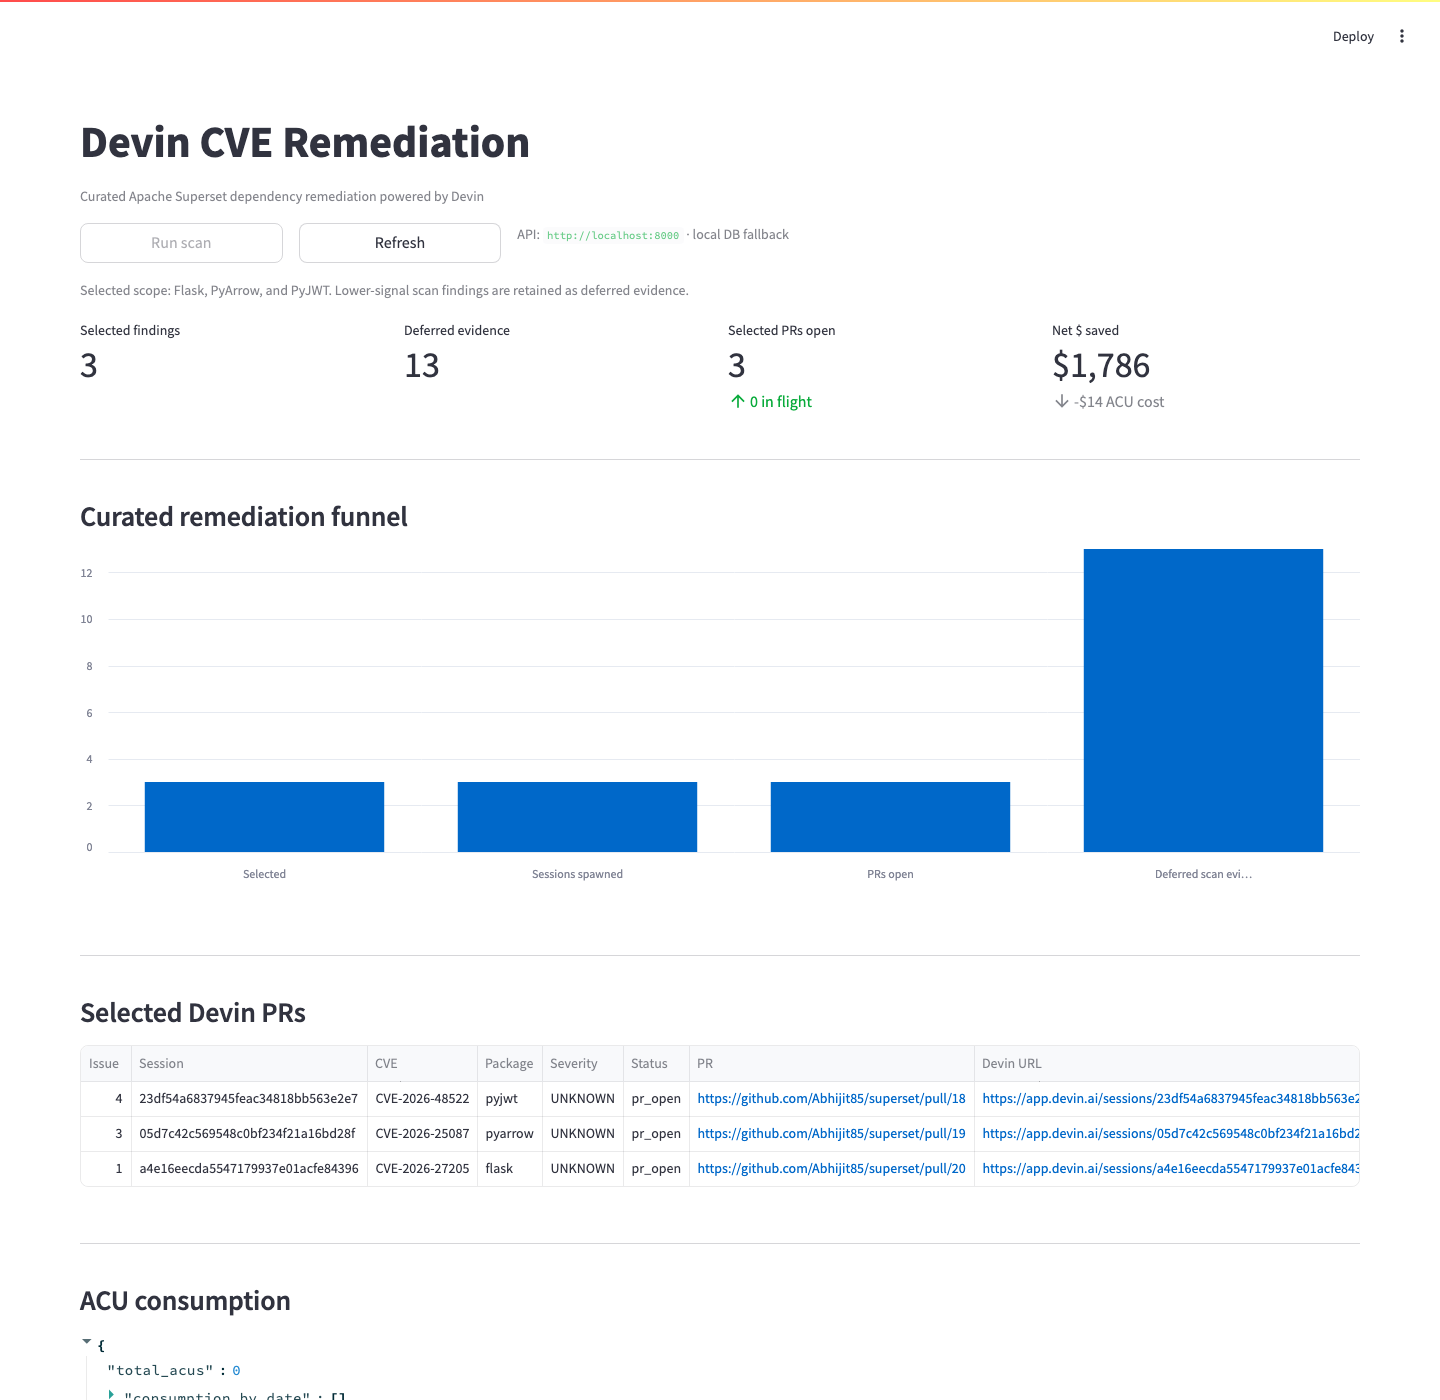
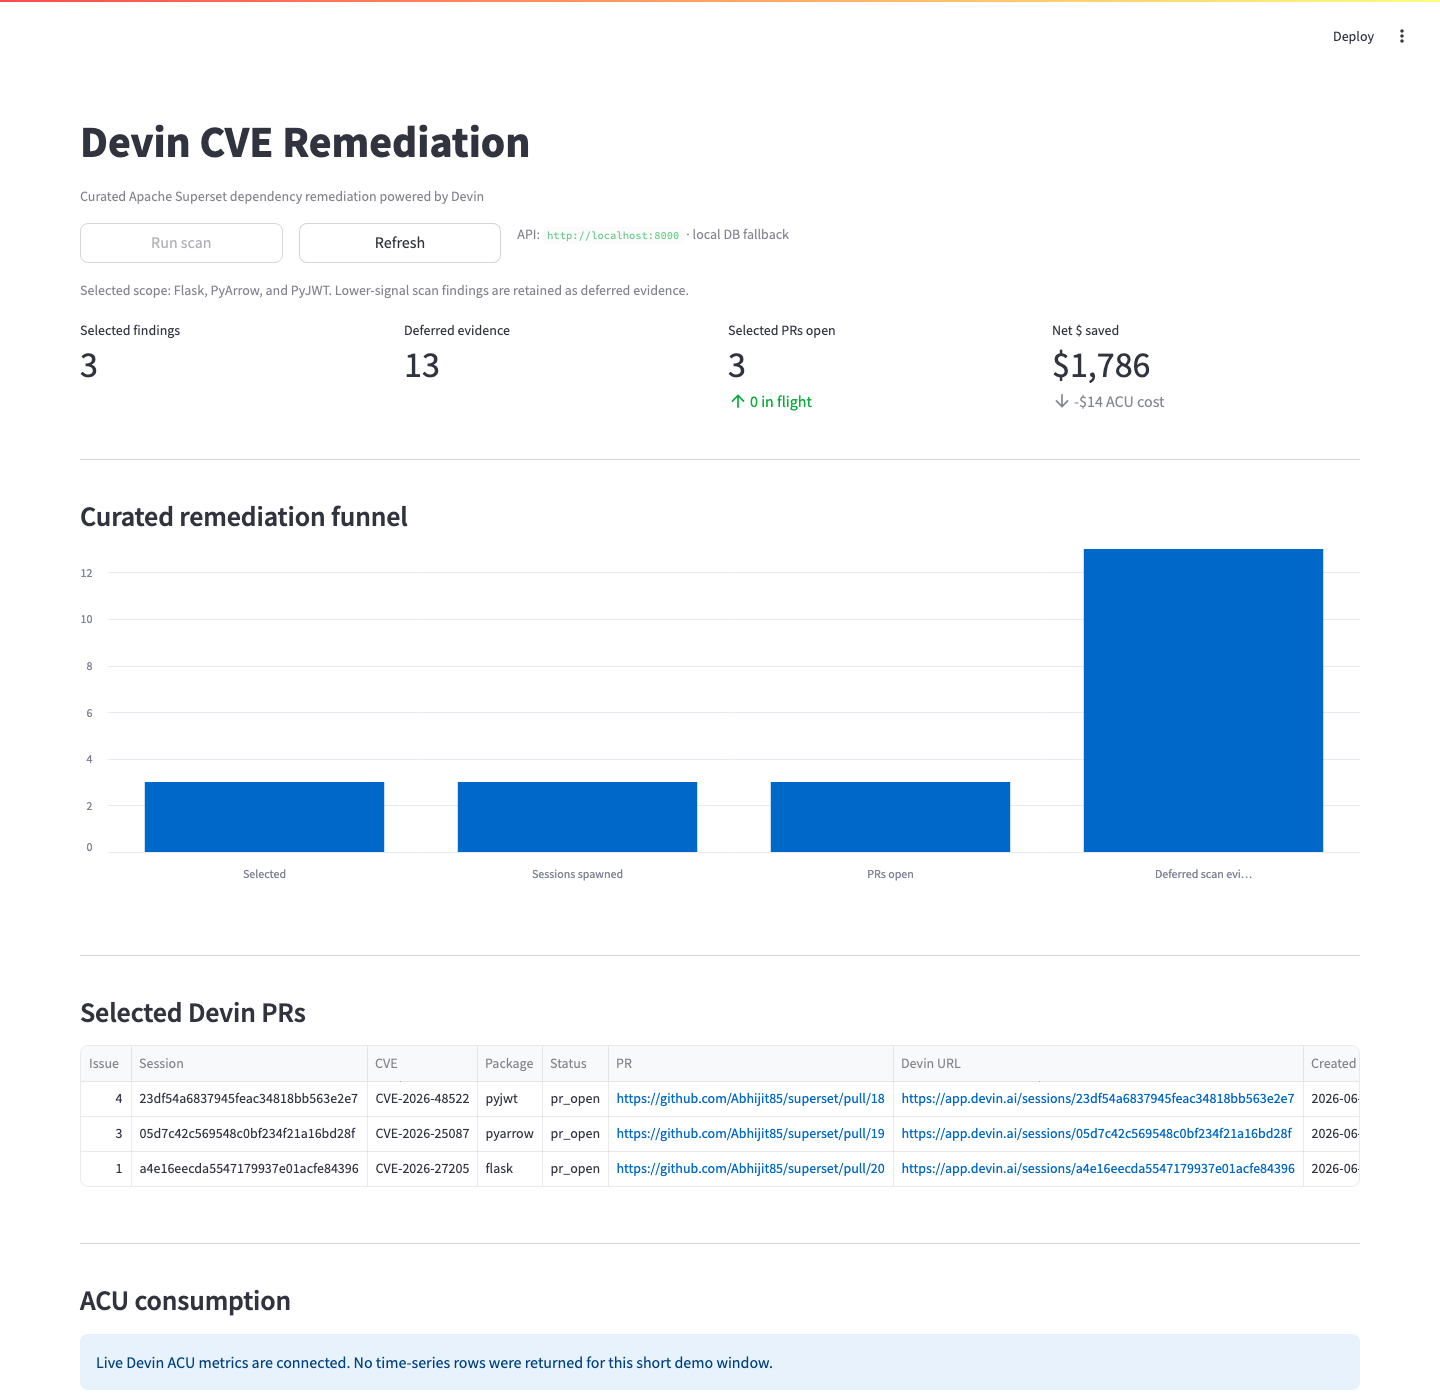
refactor: remove severity column from session rendering and update info message for consumption

Changed region(s): [[0.375, 0.7679, 0.9375, 0.86], [0.0625, 0.9521, 0.5312, 0.9829]]

diff --git a/dashboard/app.py b/dashboard/app.py
@@ -231,7 +231,6 @@ def render_sessions(sessions: pd.DataFrame) -> None:
         "devin_session_id",
         "cve_id",
         "package",
-        "severity",
         "status",
         "pr_url",
         "devin_session_url",
@@ -245,7 +244,6 @@ def render_sessions(sessions: pd.DataFrame) -> None:
         "devin_session_id": "Session",
         "cve_id": "CVE",
         "package": "Package",
-        "severity": "Severity",
         "status": "Status",
         "pr_url": "PR",
         "devin_session_url": "Devin URL",
@@ -278,7 +276,10 @@ def render_consumption(sessions: pd.DataFrame) -> None:
                 cdf["date"] = pd.to_datetime(cdf["date"])
                 st.line_chart(cdf.set_index("date"))
                 return
-        st.json(consumption)
+        st.info(
+            "Live Devin ACU metrics are connected. No time-series rows were "
+            "returned for this short demo window."
+        )
     except Exception as exc:
         st.warning(f"Live ACU metrics unavailable: `{exc}`")
         if not sessions.empty and "created_at" in sessions.columns: